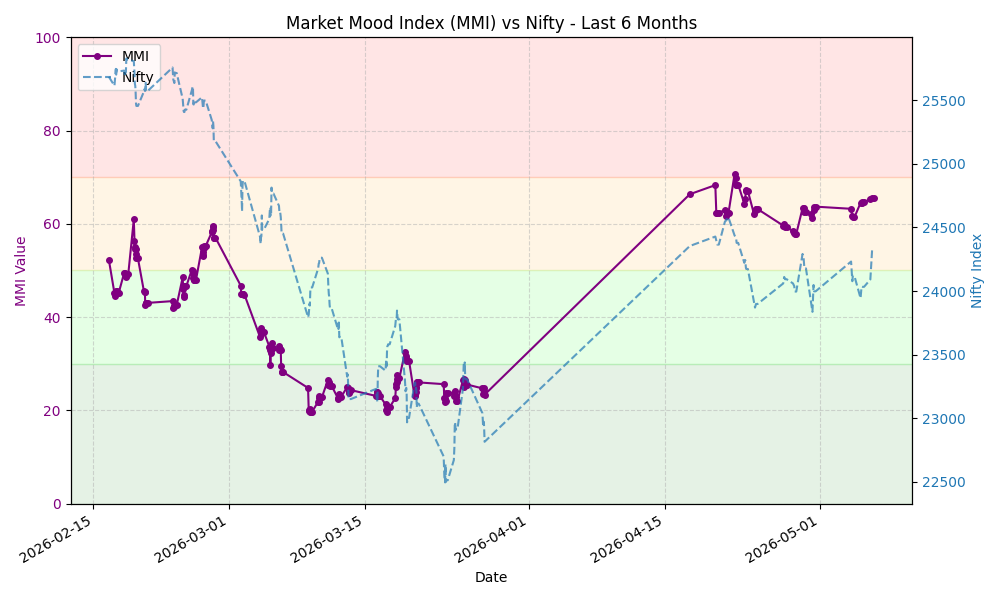
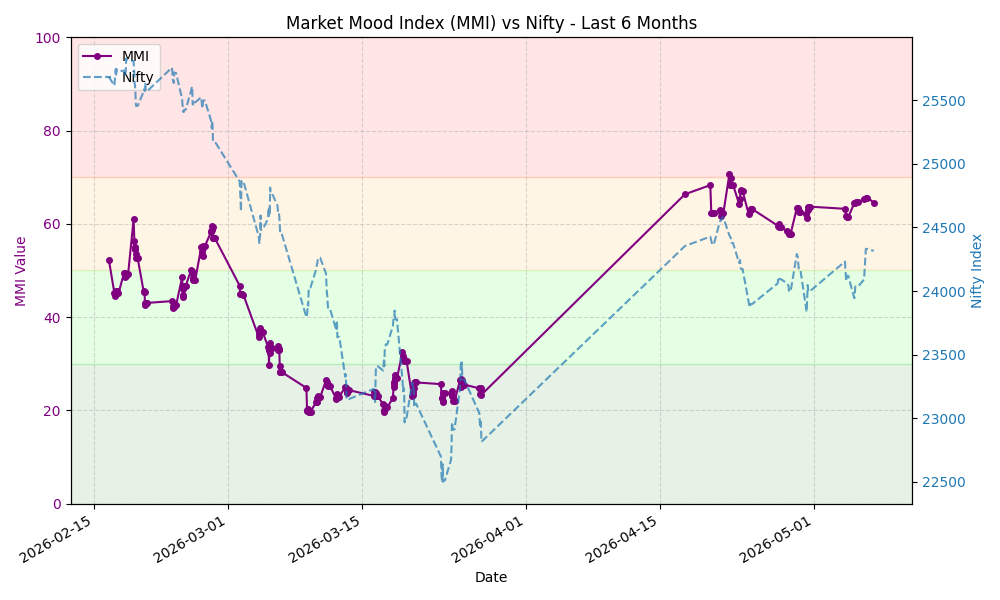
Update MMI data and chart

diff --git a/README.md b/README.md
@@ -7,8 +7,8 @@ This repository automatically fetches the MMI value, stores the history, and gen
 
 ## Latest MMI Value
 
-**65.62** - **Greed**
-<small>Last Updated: 2026-05-06 14:20 UTC</small>
+**64.57** - **Greed**
+<small>Last Updated: 2026-05-07 06:09 UTC</small>
 
 ## MMI Trend (Last 30 Days)
 